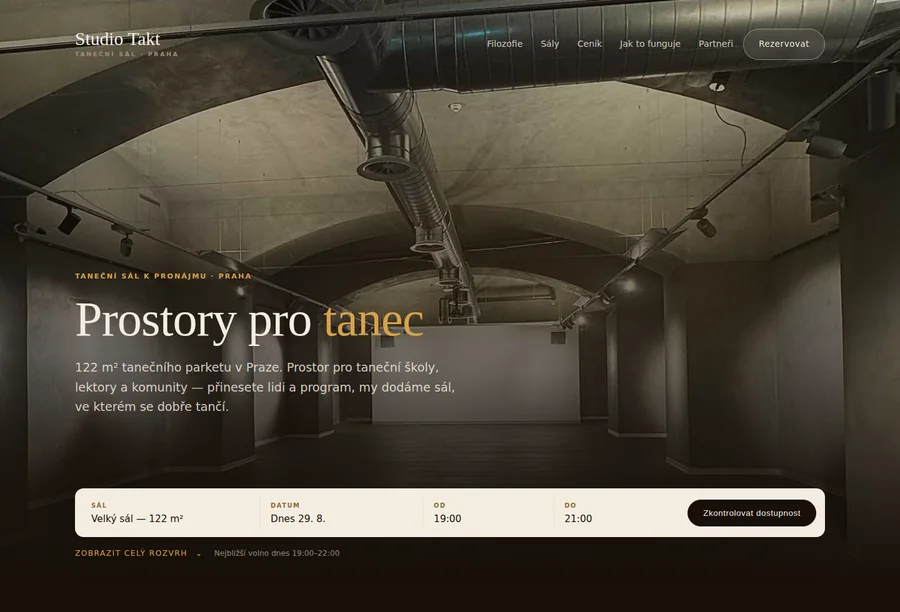
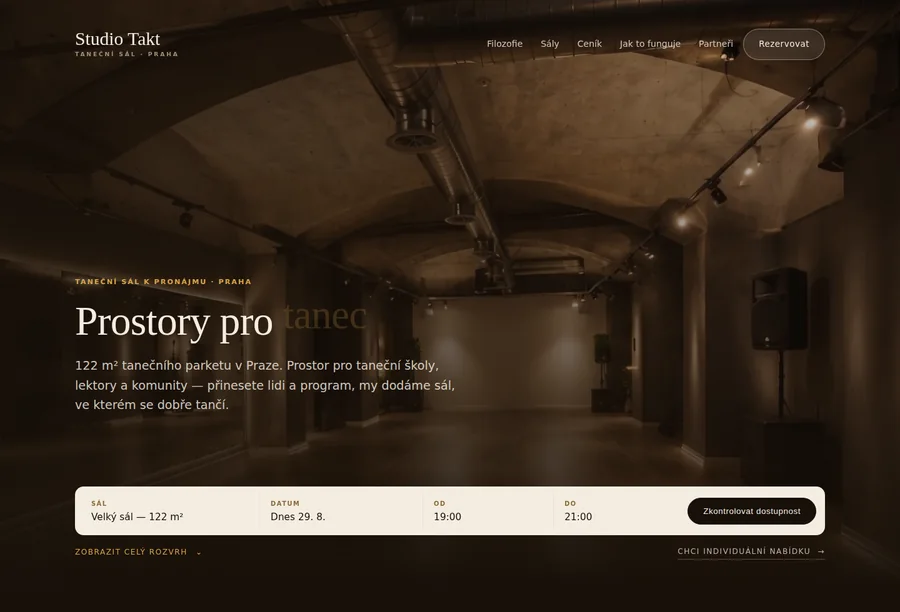
Apply the fifth review round to variant D
Twelve notes, plus the three renders you pushed.

Hero
The single photograph is replaced by your three renders — empty, party,
networking — crossfading every five seconds over a 1.6s fade, held still
under prefers-reduced-motion. They are cropped to 16:9 and delivered as
WebP, so all three together come to 283 KB against the 6.2 MB of the
originals, which stay in the repo untouched. The scrim was pulled back so
the images actually read through it, and the headline is a size smaller.

The word rotator now runs at roughly one second a word rather than two and
a half. That lives in the shared rotator.js, so every variant speeds up.

Reservation row
The availability hint is gone and "Chci individuální nabídku" sits inline on
the right of the row, opposite the schedule toggle.

Content
- Step two reads "Rezervaci potvrdíme".
- The tiles band had a full section's padding; it now has its own tighter
  rhythm.
- The tariff footnote and the closing band's background photograph are gone.
- The partner heading is centred, matching E.
- New section: opt-in recording. Cameras are off by default, ticking
  Zaznam at booking starts and stops them with the hour, the link arrives
  within the hour, and it is deleted after thirty days. The fourth point
  says the instructor informs participants and we supply the door notice —
  worth keeping, since automatic recording of a room full of people is the
  kind of feature that needs a consent story on the page.

The placeholder-logo caveat
[…]

diff --git a/mockupy/d-salon.html b/mockupy/d-salon.html
@@ -58,7 +58,7 @@ ul, ol { padding: 0; list-style: none; }
 /* the accent word, upright — italics are kept for the hero alone */
 .d .hl { color: var(--tung-ink); }
 .night .d .hl, .close .d .hl { color: var(--tung); }
-.h1 { font-size: clamp(2.5rem, 6vw, 4.9rem); line-height: 1.02; }
+.h1 { font-size: clamp(2.2rem, 5vw, 4.1rem); line-height: 1.04; }
 .h2 { font-size: clamp(1.95rem, 3.6vw, 3.1rem); }
 .h3 { font-size: 1.36rem; line-height: 1.18; }
 .tag { font-size: .7rem; font-weight: 600; letter-spacing: .18em; text-transform: uppercase; color: var(--tung-ink); }
@@ -113,12 +113,22 @@ ul, ol { padding: 0; list-style: none; }
 }
 @media (min-width: 900px) { .hero { min-height: 100svh; } }
 .hero__bg { position: absolute; inset: 0; z-index: -2; overflow: hidden; }
-.hero__bg img { width: 100%; height: 100%; object-fit: cover; object-position: center 44%; }
+.hero__bg img {
+  position: absolute;
+  inset: 0;
+  width: 100%; height: 100%;
+  object-fit: cover;
+  object-position: center 46%;
+  opacity: 0;
+  transition: opacity 1.6s var(--ease);
+}
+.hero__bg img[data-on="true"] { opacity: 1; }
+@media (prefers-reduced-motion: reduce) { .hero__bg img { transition: none; } }
 .hero__bg::after {
   content: ""; position: absolute; inset: 0;
   background:
-    linear-gradient(to top, var(--night) 6%, rgba(23,16,9,.6) 42%, rgba(23,16,9,.28) 100%),
-    radial-gradient(80% 60% at 62% 46%, rgba(217,162,72,.2), transparent 70%);
+    linear-gradient(to top, var(--night) 4%, rgba(23,16,9,.52) 40%, rgba(23,16,9,.2) 100%),
+    linear-gradient(100deg, rgba(23,16,9,.72) 6%, rgba(23,16,9,.3) 46%, transparent 78%);
 }
 .hero__in { padding-bottom: clamp(30px, 5vw, 66px); color: var(--cream); }
 .hero .tag { display: block; margin-bottom: 18px; }
@@ -189,7 +199,17 @@ ul, ol { padding: 0; list-style: none; }
 .peek__btn:hover { color: var(--cream); }
 .peek__btn span { display: inline-block; margin-left: 8px; transition: transform .4s var(--ease); }
 .peek__btn[aria-expanded="true"] span { transform: rotate(180deg); }
-.peek__hint { font-size: .76rem; color: rgba(244,237,225,.55); }
+.peek__ask {
+  margin-left: auto;
+  font-size: .76rem; font-weight: 500; letter-spacing: .12em; text-transform: uppercase;
+  color: rgba(244,237,225,.72);
+  border-bottom: 1px solid rgba(244,237,225,.28);
+  padding-bottom: 2px;
+  transition: color .3s var(--ease), border-color .3s var(--ease);
+}
+.peek__ask:hover { color: var(--cream); border-bottom-color: var(--tung); }
+.peek__ask span { display: inline-block; margin-left: 6px; transition: transform .3s var(--ease); }
+.peek__ask:hover span { transform: translateX(3px); }
 
 .cal {
   position: relative; z-index: 2;
@@ -225,7 +245,7 @@ section { padding: clamp(56px, 7vw, 104px) 0; }
 section.night { background: var(--night); color: rgba(244,237,225,.82); }
 section.night .d, section.night .h2, section.night .h3, section.night b { color: var(--cream); }
 section.night .p, section.night .lede { color: rgba(244,237,225,.8); }
-.pad-t0 { padding-top: clamp(64px, 8vw, 116px); }
+.band-tight { padding-block: clamp(30px, 4vw, 54px); }
 
 .two { display: grid; gap: clamp(28px, 4vw, 64px); align-items: center; }
 @media (min-width: 900px) { .two { grid-template-columns: 1fr 1fr; } }
@@ -273,9 +293,14 @@ table.t .best { color: var(--tung-ink); font-weight: 600; }
 
 /* partners */
 /* what the sál is used for, as a ruled index */
-.uses { margin-top: clamp(22px, 3vw, 32px); max-width: 34rem; border-top: 1px solid rgba(244,237,225,.14); }
-.uses li { display: flex; gap: 12px; padding: 11px 0; border-bottom: 1px solid rgba(244,237,225,.14); font-size: .92rem; color: rgba(244,237,225,.82); }
-.uses li::before { content: "—"; color: var(--tung); }
+/* the list is used on both the dark and the cream bands, so it defaults to
+   the light ground and the night sections override it */
+.uses { margin-top: clamp(22px, 3vw, 32px); max-width: 34rem; border-top: 1px solid var(--cream2); }
+.uses li { display: flex; gap: 12px; padding: 11px 0; border-bottom: 1px solid var(--cream2); font-size: .92rem; color: var(--body); }
+.uses li::before { content: "—"; color: var(--tung-ink); }
+.night .uses { border-top-color: rgba(244,237,225,.14); }
+.night .uses li { border-bottom-color: rgba(244,237,225,.14); color: rgba(244,237,225,.82); }
+.night .uses li::before { color: var(--tung); }
 
 /* partner carousel — the logo row is its navigation */
 .car { margin-top: clamp(34px, 4vw, 56px); }
@@ -380,8 +405,10 @@ footer.f { background: var(--night2); color: rgba(244,237,225,.72); padding: cla
 </nav>
 
 <section class="hero">
-  <div class="hero__bg" aria-hidden="true">
-    <img src="../assets/img/hall-hero.webp" alt="" width="1590" height="960">
+  <div class="hero__bg" data-slides aria-hidden="true">
+    <img src="../assets/img/hall-empty.webp" alt="" width="1920" height="1080" data-on="true">
+    <img src="../assets/img/hall-party.webp" alt="" width="1920" height="1080" loading="lazy">
+    <img src="../assets/img/hall-networking.webp" alt="" width="1920" height="1080" loading="lazy">
   </div>
 
   <header class="top">
@@ -441,7 +468,7 @@ footer.f { background: var(--night2); color: rgba(244,237,225,.72); padding: cla
     <button class="peek__btn" type="button" data-peek aria-expanded="false" aria-controls="kalendar">
       Zobrazit celý rozvrh <span aria-hidden="true">⌄</span>
     </button>
-    <span class="peek__hint" data-peek-hint></span>
+    <a class="peek__ask" href="#partneri">Chci individuální nabídku <span aria-hidden="true">→</span></a>
   </div>
   <div class="cal" id="kalendar" data-cal data-open="false">
     <div class="cal__row" data-cal-row></div>
@@ -449,7 +476,7 @@ footer.f { background: var(--night2); color: rgba(244,237,225,.72); padding: cla
 </section>
 
 <main>
-  <section>
+  <section class="band-tight">
     <div class="wrap">
       <ul class="feats">
         <li class="feat"><b>122 m²</b><span>velký sál bez sloupů</span></li>
@@ -532,10 +559,33 @@ footer.f { background: var(--night2); color: rgba(244,237,225,.72); padding: cla
       <h2 class="d h2" style="margin-top:12px">Od kliknutí <span class="hl">do sálu.</span></h2>
       <ol class="steps">
         <li class="step"><b>01</b><h3 class="d h3">Vyberete hodiny</h3><p>V rozvrhu kliknete na volné bloky. Minimum je jedna hodina.</p></li>
-        <li class="step"><b>02</b><h3 class="d h3">Potvrdíme do 12 hodin</h3><p>Ozveme se e-mailem, u dlouhodobých rezervací přiložíme smlouvu.</p></li>
+        <li class="step"><b>02</b><h3 class="d h3">Rezervaci potvrdíme</h3><p>Ozveme se e-mailem, u dlouhodobých rezervací přiložíme smlouvu.</p></li>
         <li class="step"><b>03</b><h3 class="d h3">Dostanete kód</h3><p>Samostatný vstup z ulice. Kód platí jen ve vašich hodinách.</p></li>
         <li class="step"><b>04</b><h3 class="d h3">Platíte odebrané hodiny</h3><p>Předem převodem, partnerským školám souhrnně na začátku měsíce.</p></li>
       </ol>
+    </div>
+  </section>
+
+    <!-- opt-in recording -->
+  <section id="zaznam">
+    <div class="wrap two two--r">
+      <figure class="shot">
+        <img src="../assets/img/hall-empty.webp" alt="Sál připravený k natáčení — zrcadlová stěna a bodové osvětlení" width="1920" height="1080" loading="lazy">
+      </figure>
+      <div>
+        <span class="tag">Záznam</span>
+        <h2 class="d h2" style="margin-top:12px">Nahrajeme vám lekci, <span class="hl">když si řeknete.</span></h2>
+        <p class="p" style="margin-top:18px">V sále jsou kamery a standardně jsou vypnuté. Když si u rezervace
+          zaškrtnete <strong>Záznam</strong>, spustí se samy s vaší hodinou
+          a s ní i skončí — nikdo nic neobsluhuje. Odkaz na video přijde do
+          hodiny po skončení.</p>
+        <ul class="uses">
+          <li><span>Zapíná se jen na vyžádání — bez zaškrtnutí se nenahrává nic</span></li>
+          <li><span>Začíná a končí přesně s vaší rezervací</span></li>
+          <li><span>Odkaz dostanete jen vy, po 30 dnech mažeme</span></li>
+          <li><span>Účastníky informuje lektor, ceduli ke vchodu dodáme</span></li>
+        </ul>
+      </div>
     </div>
   </section>
 
@@ -559,18 +609,14 @@ footer.f { background: var(--night2); color: rgba(244,237,225,.72); padding: cla
           <tr><th>Oba sály<small>142 m²</small></th><td>820 Kč</td><td>1 090 Kč</td><td class="best">890 Kč</td></tr>
         </tbody>
       </table>
-      <p class="note">Ceny jsou orientační, včetně DPH. Storno bezplatně do 48 hodin před termínem.</p>
+      
     </div>
   </section>
 
   <section id="partneri" class="night">
     <div class="wrap">
-      <span class="tag tag--l">S kým pracujeme</span>
-      <h2 class="d h2" style="margin-top:12px">Školy, <span class="hl">které u nás učí.</span></h2>
-      <p class="note" style="text-align:center;max-width:60ch;margin-inline:auto">
-        <b>Ukázka.</b> Kromě Simply the West jsou loga zástupná — ukazují, jak
-        bude sekce vypadat s pěti partnerskými školami.
-      </p>
+      <span class="tag tag--l" style="text-align:center">S kým pracujeme</span>
+      <h2 class="d h2" style="margin-top:12px;text-align:center">Školy, <span class="hl">které u nás učí.</span></h2>
       <div class="car" data-car aria-roledescription="carousel" aria-label="Partnerské školy">
         <div class="car__view"><div class="car__track" data-car-track></div></div>
         <ul class="slots" data-car-nav></ul>
@@ -579,7 +625,7 @@ footer.f { background: var(--night2); color: rgba(244,237,225,.72); padding: cla
   </section>
 
   <section class="cta">
-    <img src="../assets/img/hall-floor.webp" alt="" width="1400" height="681">
+    
     <div class="wrap">
       
       <h2 class="d h2" style="margin-top:12px">Přijďte si sál <span class="hl">osobně projít.</span></h2>
@@ -731,6 +777,21 @@ footer.f { background: var(--night2); color: rgba(244,237,225,.72); padding: cla
           out.innerHTML = "<b>" + name + " je volný</b> " + R.longDate(date) + ", " +
         R.hhmm(from) + "–" + R.hhmm(from + len) + " · " + R.czk(price);
   });
+
+    /* three views of the same hall, crossfading */
+  (function () {
+    var wrap = document.querySelector("[data-slides]");
+    if (!wrap) return;
+    var imgs = wrap.querySelectorAll("img");
+    if (imgs.length < 2) return;
+    if (window.matchMedia && window.matchMedia("(prefers-reduced-motion: reduce)").matches) return;
+    var i = 0;
+    setInterval(function () {
+      imgs[i].removeAttribute("data-on");
+      i = (i + 1) % imgs.length;
+      imgs[i].setAttribute("data-on", "true");
+    }, 5000);
+  })();
 
   /* the week at a glance, folded under the bar */
   var peekBtn = document.querySelector("[data-peek]");

diff --git a/mockupy/e-atelier.html b/mockupy/e-atelier.html
@@ -714,10 +714,6 @@ section { padding-block: var(--band); }
             <span class="eyebrow rv" style="text-align:center">S kým pracujeme</span>
       <h2 class="d h2 rv" style="margin-top:16px;max-width:15ch;margin-inline:auto;text-align:center">Školy, <em>které u nás učí.</em></h2>
 
-      <p class="note rv" style="text-align:center;border-left:0;border-top:1px solid var(--taupe-dp);max-width:60ch;margin-inline:auto">
-        <b>Ukázka.</b> Kromě Simply the West jsou loga zástupná — ukazují, jak
-        bude sekce vypadat s pěti partnerskými školami.
-      </p>
       <div class="car rv" data-car aria-roledescription="carousel" aria-label="Partnerské školy">
         <div class="car__view">
           <div class="car__track" data-car-track></div>

diff --git a/assets/js/rotator.js b/assets/js/rotator.js
@@ -8,8 +8,8 @@
   "use strict";
 
   var WORDS = ["tanec", "zkoušky", "workshopy", "komunitu", "focení", "setkání"];
-  var HOLD = 2200;   // how long each word stays
-  var FADE = 380;    // must match the CSS transition
+    var HOLD = 1100;   // how long each word stays
+  var FADE = 190;    // must match the CSS transition
 
   function init(el, words) {
     words = words || WORDS;

diff --git a/README.md b/README.md
@@ -82,8 +82,8 @@ a v hero sekci počítá s krátkou video smyčkou místo fotografie.
 **Společné pro všechny návrhy** po poslední revizi:
 
 - Titulek je **„Prostory pro …“** a poslední slovo se střídá (tanec, zkoušky,
-  workshopy, komunitu, focení, setkání). Animaci obstarává
-  `assets/js/rotator.js`; při `prefers-reduced-motion` se nehýbe.
+  workshopy, komunitu, focení, setkání) přibližně po sekundě. Animaci
+  obstarává `assets/js/rotator.js`; při `prefers-reduced-motion` se nehýbe.
 - **Žádná konkrétní adresa ani zmínka o klenbě.** Web mluví o Praze, ne
   o ulici. Sekce o historii domu jsou pryč ze všech variant, stejně jako
   věta o nezávislém nájemci.
@@ -143,15 +143,19 @@ Web se ukazuje bance, takže tohle je potřeba mít oddělené.
 - Plochy sálů 122 m² a 20 m² — ze zadání.
 - **Simply the West**: taneční škola Jiřího Švarce a Miriam Zedníčkové,
   West Coast Swing, Praha. Logo je z `context/`.
-- Fotografie sálu i fasády jsou skutečné, z inzerátu na prodej/pronájem
-  prostoru.
+- Fotografie sálu jsou skutečné, z inzerátu na pronájem prostoru.
+- **Tři obrázky v hero sekci návrhu D** (`hall-empty`, `hall-party`,
+  `hall-networking`) jsou **vizualizace** dokončeného sálu, ne fotky
+  současného stavu. Střídají se po pěti sekundách. Ostatní návrhy zatím
+  používají původní fotografii z inzerátu.
 
 **Vymyšlené — potřebuje potvrdit nebo přepsat**
 
 | Co | Kde | Pozn. |
 |---|---|---|
 | Název „Taneční studio Takt“ | všude | **návrh** — „Studio 29“ bylo obsazené; ověřte doménu a ochrannou známku |
-| Loga Puls, Krok, Rytmus, Vlna | kolotoč partnerů v D a E | **vymyšlené školy** — ukazují jen, jak bude sekce vypadat plná. Na stránce je to napsané. |
+| Loga Puls, Krok, Rytmus, Vlna | kolotoč partnerů v D a E | **vymyšlené školy.** Poznámka „Ukázka“ byla na přání ze stránky odstraněna, takže sekce teď vypadá jako pět skutečných partnerů. Než web někomu ukážete, vyměňte je za pravá loga, nebo poznámku vraťte. |
+| Automatický záznam lekce | sekce *Záznam* v návrhu D | **navržená služba**, zatím neexistuje — kamery, opt-in u rezervace, mazání po 30 dnech |
 | Adresa „Karolíny Světlé 301/8“ | zápatí všech stránek, `kontakt.html` | **zástupná** — skutečnou adresu na přání neuvádíme |
 | Ceny 590 / 790 / 640 Kč atd. | ceníkové tabulky, `rozvrh.js` | orientační, na webu označené jako orientační |
 | Světlá výška 3,4 m | `prostory.html`, `index.html` | odhad z fotky |
